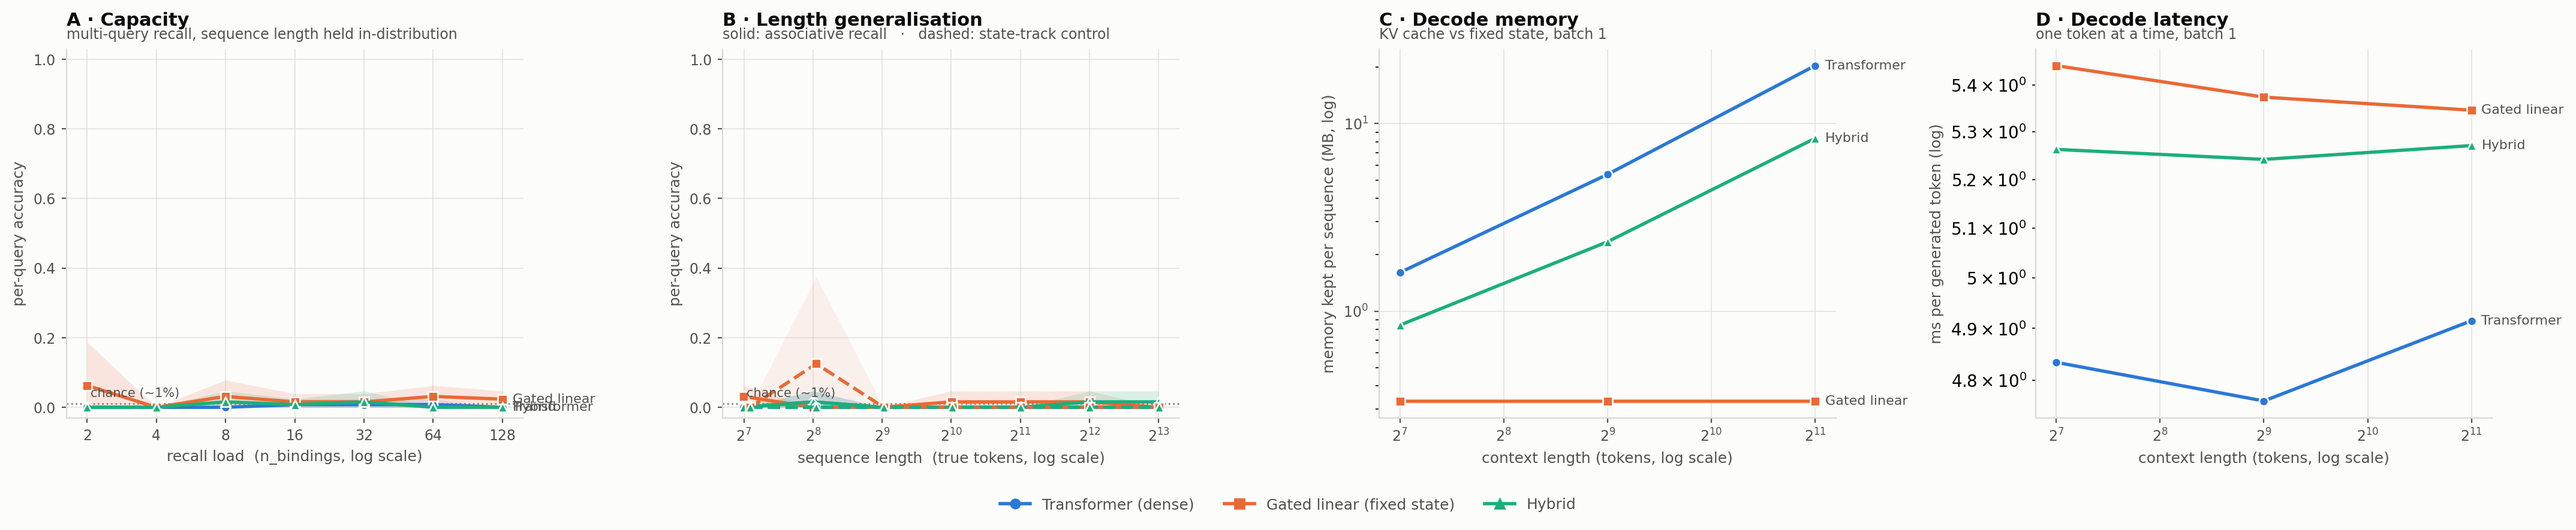
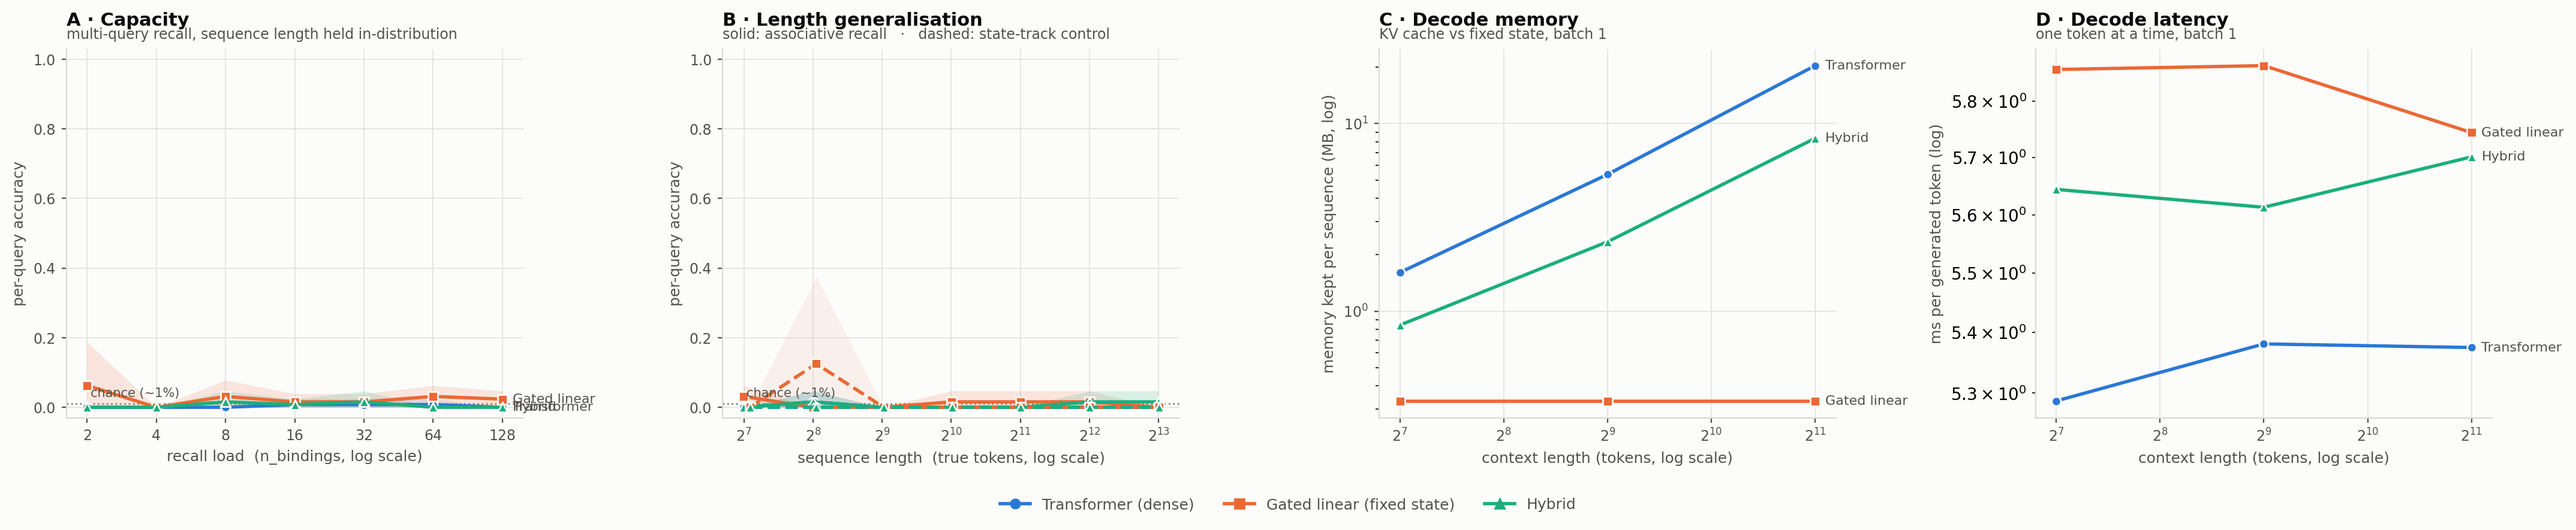
results: r08-smoke after plot

diff --git a/README.md b/README.md
@@ -4,7 +4,7 @@ Written automatically by `scripts/sync_results.py`. Never merge this branch into
 
 | run | updated | last stage | device | code |
 |---|---|---|---|---|
-| [r08-smoke](runs/r08-smoke/SUMMARY.md) | 2026-10-07 17:43 UTC | profile | Tesla T4 | `5568695` |
+| [r08-smoke](runs/r08-smoke/SUMMARY.md) | 2026-10-07 17:43 UTC | plot | Tesla T4 | `5568695` |
 | [r08](runs/r08/SUMMARY.md) | 2026-10-07 08:24 UTC | eval 4 | Tesla T4 | `aa84c56` |
 | [r07](runs/r07/SUMMARY.md) | 2026-10-07 04:36 UTC | eval 9 | Tesla T4 | `ac9a40c` |
 | [r06](runs/r06/SUMMARY.md) | 2026-10-07 04:34 UTC | eval 9 | Tesla T4 | `ac9a40c` |

diff --git a/runs/r08-smoke/SUMMARY.md b/runs/r08-smoke/SUMMARY.md
@@ -1,6 +1,6 @@
 # iota run `r08-smoke`
 
-- **updated:** 2026-10-07 17:43 UTC (last stage: `profile`)
+- **updated:** 2026-10-07 17:43 UTC (last stage: `plot`)
 - **code:** `5568695` on `claude/wonderful-ritchie-hbm5zn`
 - **device:** Tesla T4 · torch 2.10.0+cu128 · Kaggle Batch
 
